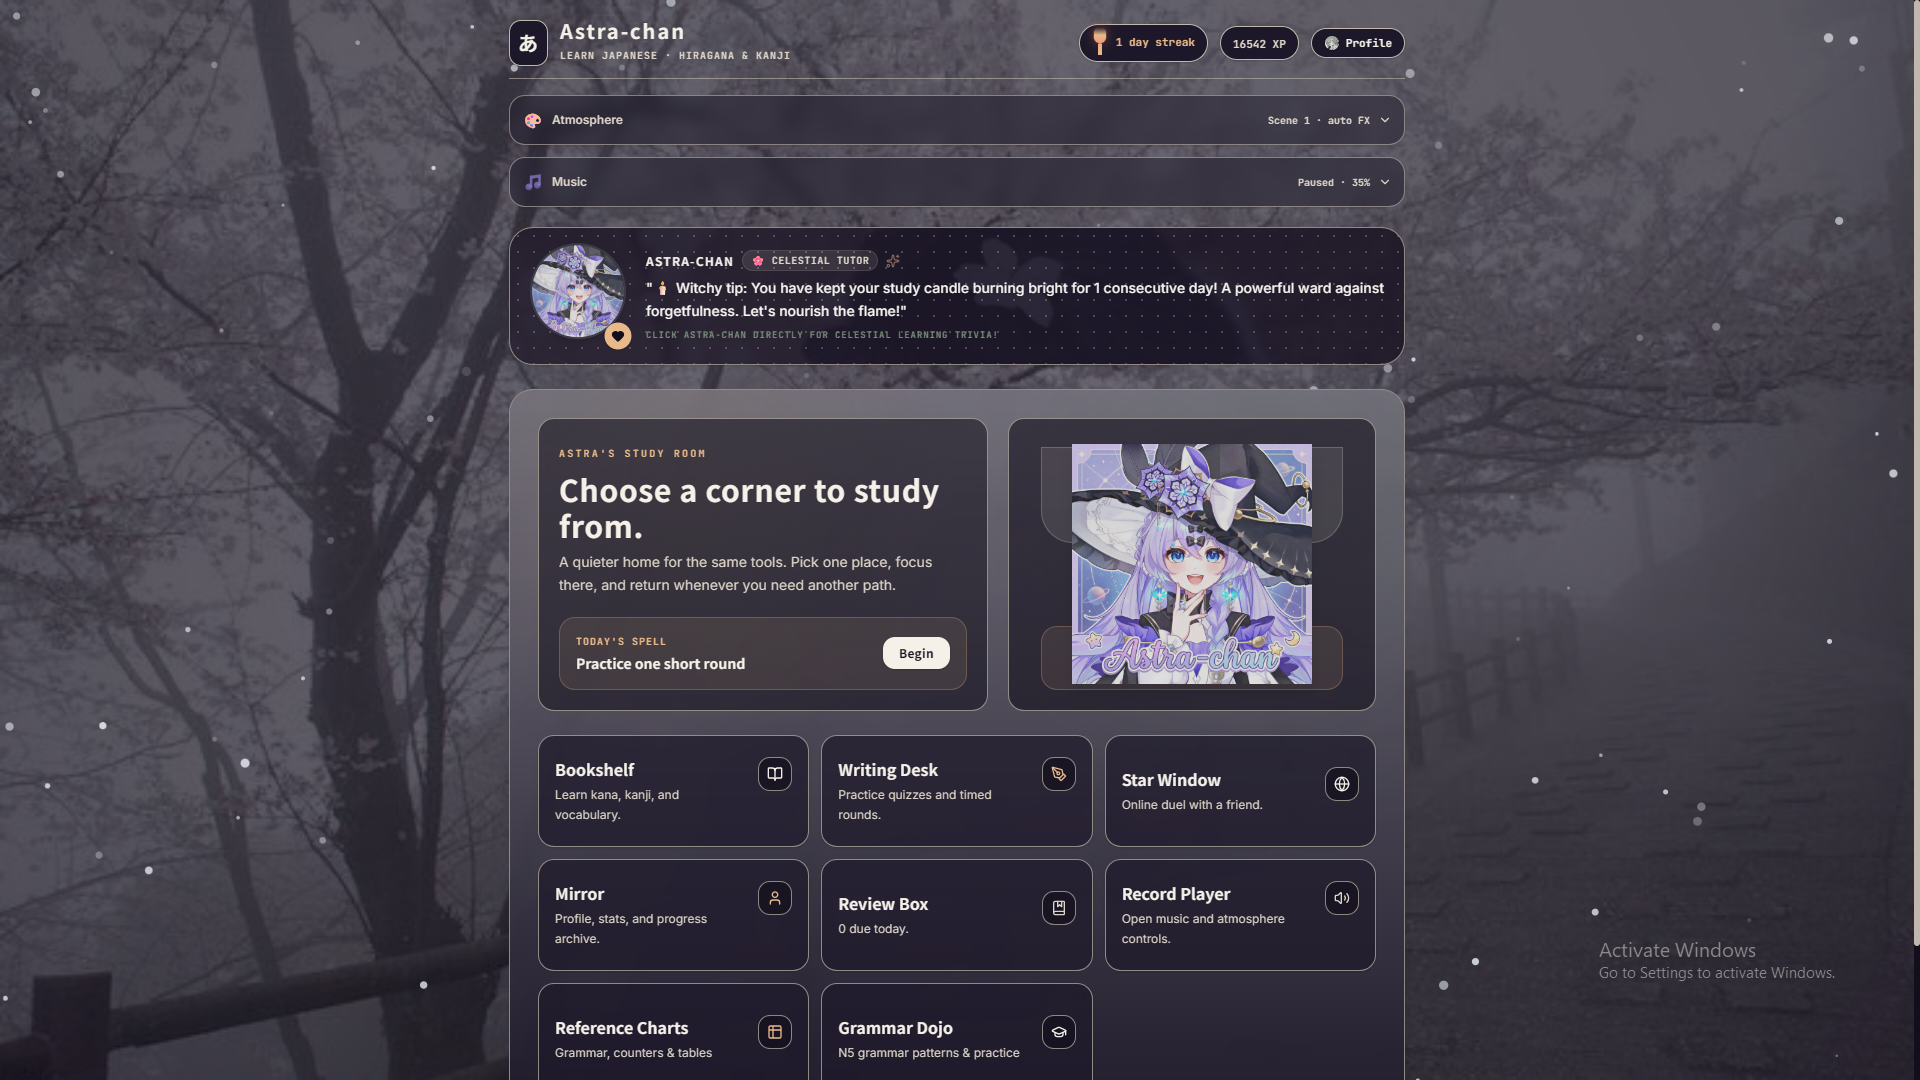
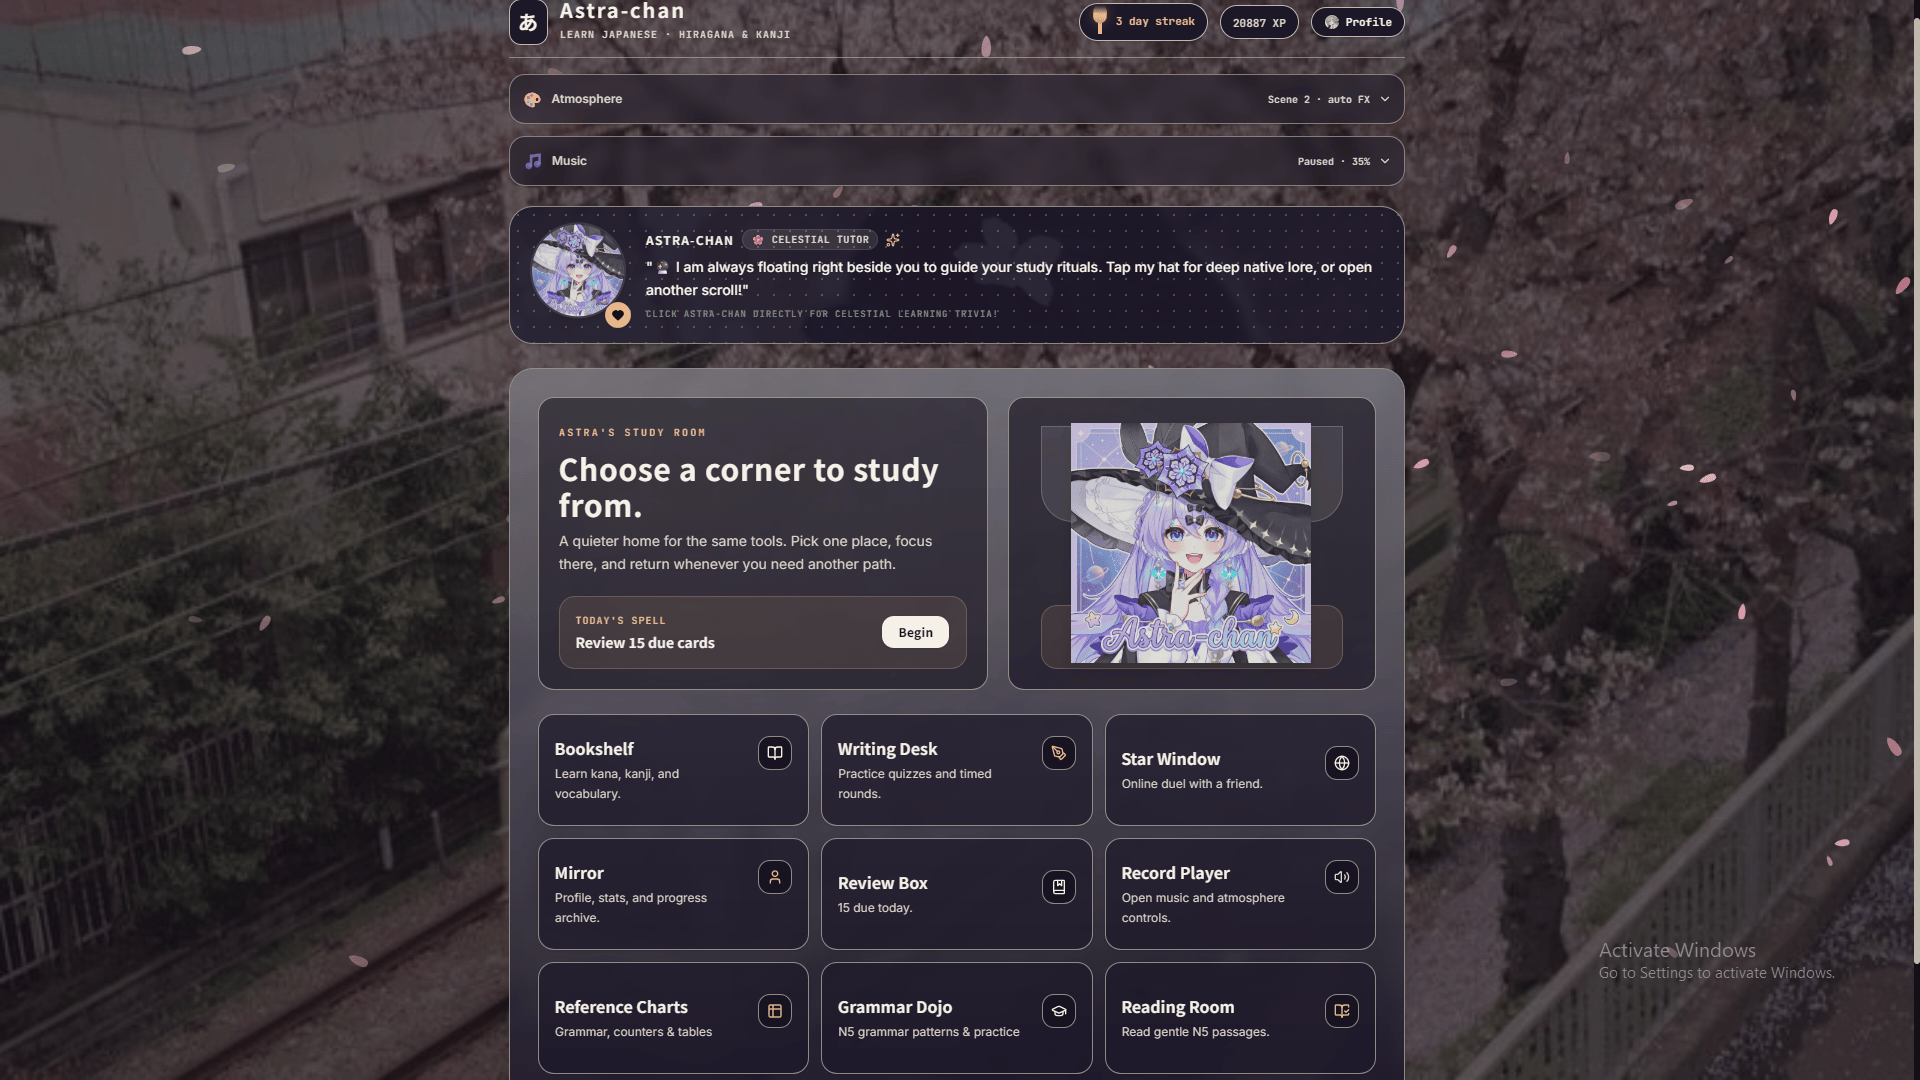
updated files

diff --git a/src/components/ReadingRoomScreen.tsx b/src/components/ReadingRoomScreen.tsx
@@ -229,9 +229,13 @@ export default function ReadingRoomScreen({
     }
 
     if (window.speechSynthesis.paused) {
-      window.speechSynthesis.resume();
+      // Some browsers keep a paused utterance in a non-resumable state.
+      // Restarting the passage is reliable and avoids a dead Resume button.
+      window.speechSynthesis.cancel();
+      speakJapanese(getPassageText(passage));
       setIsAudioPaused(false);
       setIsAudioPlaying(true);
+      setActiveSpeechTip("Playing the full audio reading again. Listen closely to the flow and intonations!");
       return;
     }
 
@@ -580,7 +584,7 @@ export default function ReadingRoomScreen({
                     className="inline-flex items-center gap-1.5 rounded-xl border border-natural-border/70 bg-natural-bg/60 px-3.5 py-2 text-xs font-serif font-bold text-natural-forest transition hover:border-natural-forest hover:bg-natural-card shadow-sm cursor-pointer"
                   >
                     {isAudioPlaying && !isAudioPaused ? <Pause className="h-4 w-4 text-natural-clay" /> : <Play className="h-4 w-4 text-natural-clay" />}
-                    <span>{isAudioPlaying && !isAudioPaused ? "Pause" : isAudioPaused ? "Resume" : "Listen"}</span>
+                    <span>{isAudioPlaying && !isAudioPaused ? "Pause" : isAudioPaused ? "Replay" : "Listen"}</span>
                   </button>
 
                   {isAudioPlaying && (

diff --git a/README.md b/README.md
@@ -135,6 +135,21 @@ The home screen is Astra-chan's room — each object is a destination:
   <img src="docs/kanji-word-family.png" alt="Kanji Word Family — reading-grouped vocabulary panel for 月 (Moon/Month)" width="70%" />
 </p>
 
+### 📖 Reading Room
+- **N5 Reading Passages** — gentle multi-sentence stories built from the app's Japanese vocabulary and grammar
+- **Guided & Immersion Modes** — reveal readings and meanings while learning, or read independently and mark unfamiliar words
+- **Tap-to-Explore Words** — inspect readings and meanings directly inside each passage
+- **Optional Reading Timer** — choose no limit or a 1 / 3 / 5 / 10 minute session
+- **Comprehension Checks** — answer questions after selected N5 passages and review your result
+- **Personal Reading Notes** — keep a session list of words you marked as difficult
+- **Review Deck Integration** — add individual missed words or all collected words to the SRS Review Deck
+- **Astra-chan Reading Companion** — Astra reads alongside you, reacts when called, and returns to her book after a short conversation
+- **Future Levels** — N4 through N1 are shown as planned levels and will unlock in future updates
+
+<p align="center">
+  <img src="docs/reading-room.png" alt="Reading Room — N5 passages with guided help, optional timer, and Astra-chan companion" width="100%" />
+</p>
+
 ### 📖 Grammar Dojo
 - **12 Core N5 Grammar Patterns** — detailed structural guides with full explanations, syntax breakdowns, and cultural tips
 - **Rich Media Support** — interactive audio pronunciation (🔊 TTS) for all grammar formulas and example sentences
@@ -216,7 +231,7 @@ The home screen is Astra-chan's room — each object is a destination:
   - Goes wondering after 15 seconds of no interaction
   - Goes into deep AFK mode after 3 minutes
   - Lights up with excitement when you return
-  - Three artwork states with smooth crossfade transitions
+  - Five artwork states with smooth crossfade transitions, including dedicated reading and reading-reaction artwork
 
 ---
 
@@ -328,6 +343,7 @@ Online multiplayer uses Firebase Anonymous Auth and these Realtime Database path
 - [x] Interactive Mastery Sandbox (counter builder, verb conjugation worksheet, 31-day calendar ledger — built as interactive tools rather than literal user-created tables)
 - [x] Kanji Word Family panel (reading-grouped vocabulary deep-dive, 13 kanji so far)
 - [x] 6-theme visual system (Light, Dark, Cosmic Witch, Emerald Jade, Autumn Maple, Cyber Tokyo)
+- [x] Reading Room with N5 passages, Guided/Immersion modes, optional timers, comprehension checks, and SRS notes
 - [x] Two-way friend request system with accept/decline flow and profile notifications
 - [x] Online duel match history
 - [x] Same-room rematch / Play Again flow
